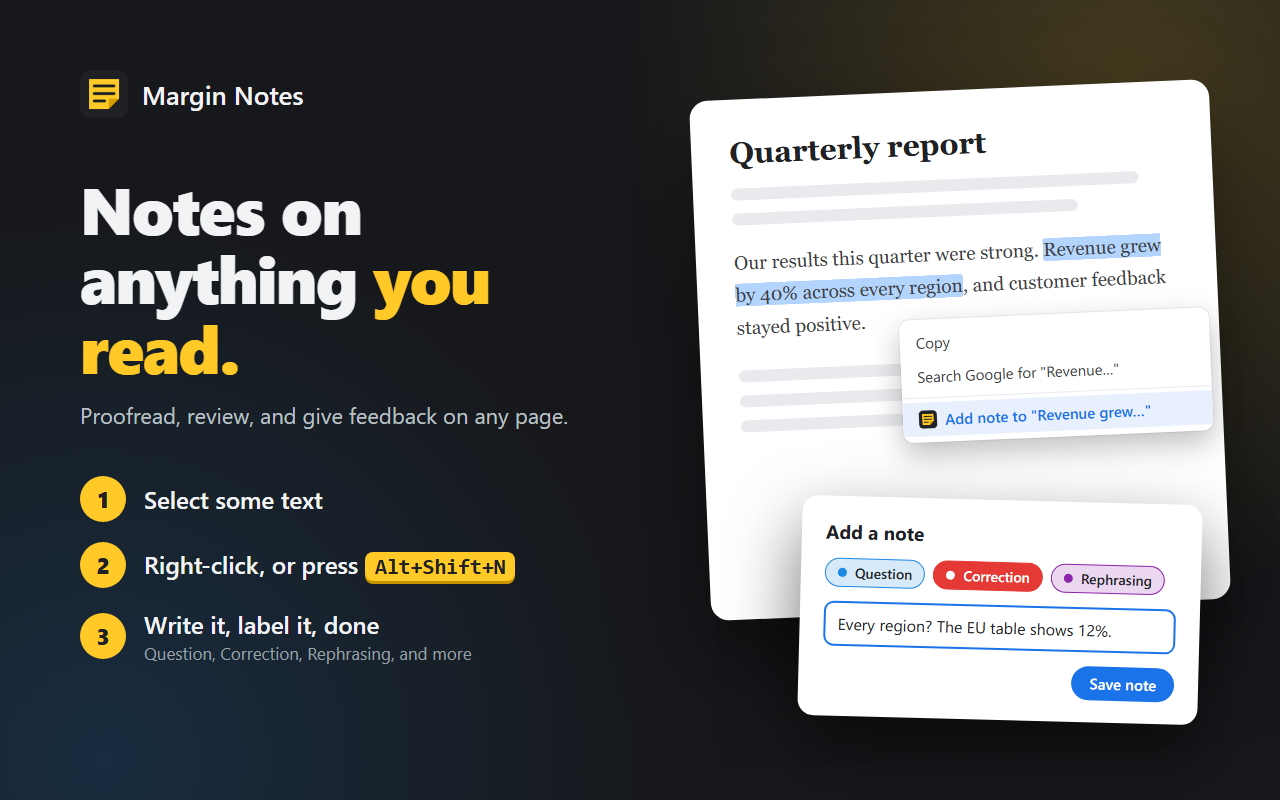
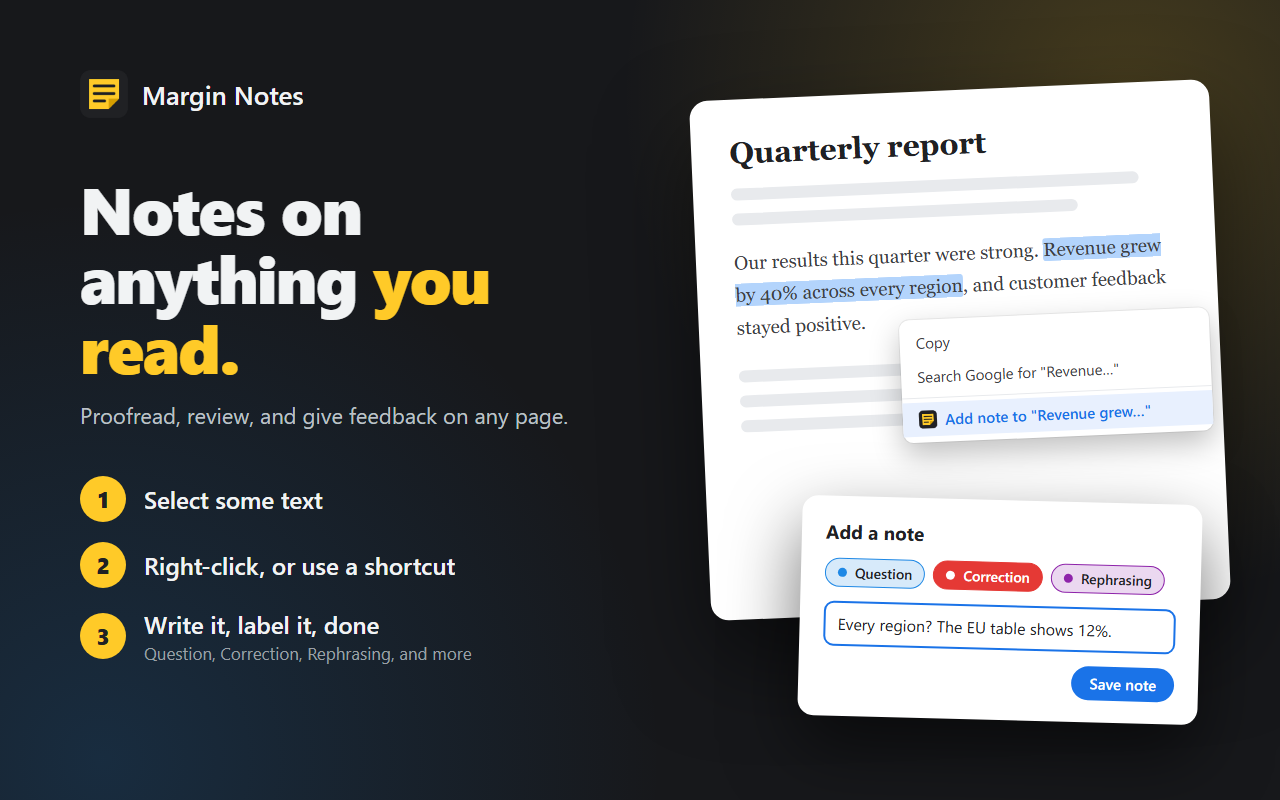
docs: stop promising Alt+Shift+N in the first store image
Chrome treats the manifest key as a suggestion only. It skips the key
with no error when another extension already uses it, so some users
install the extension with no shortcut. The first store image and the
"How it works" step claimed the key was always there.

The image and step 2 now say "a shortcut" with no key name. The
features list keeps Alt+Shift+N as the default and says Chrome skips it
when another extension holds it.

Changed region(s): [[0.125, 0.6875, 0.4062, 0.75]]

diff --git a/store/graphics/01-simple.html b/store/graphics/01-simple.html
@@ -184,7 +184,7 @@
         </div>
         <div class="step">
           <span class="num">2</span>
-          <div>Right-click, or press <kbd>Alt+Shift+N</kbd></div>
+          <div>Right-click, or use a shortcut</div>
         </div>
         <div class="step">
           <span class="num">3</span>

diff --git a/store/listing.md b/store/listing.md
@@ -44,7 +44,7 @@ Margin Notes is made for proofreading, reviewing, and giving feedback on content
 HOW IT WORKS
 
 1. Select some text on a page.
-2. Right-click and choose "Add note", or press Alt+Shift+N.
+2. Right-click and choose "Add note", or press the keyboard shortcut.
 3. Pick a label, write your note, and press Ctrl+Enter. Done.
 
 FEATURES
@@ -52,7 +52,7 @@ FEATURES
 • One folder per page: every page you annotate gets its own folder. Different pages of the same site stay apart. Tracking tags and anchors in the address (after "?" or "#") are ignored, so one article stays one folder.
 • Export in one click: copy a page's notes as Markdown, or download them as a .md or .txt file. You can also download all your notes at once.
 • Works almost everywhere: web pages, PDFs, and local files that you open in Chrome.
-• Keyboard shortcut: Alt+Shift+N by default. Change it at chrome://extensions/shortcuts.
+• Keyboard shortcut: Alt+Shift+N by default. Chrome skips it if another extension already uses it. Set or change it at chrome://extensions/shortcuts.
 • Edit and delete: fix a note later, or clear a whole page when you are done.
 • Light and dark mode: follows your system theme.
 
